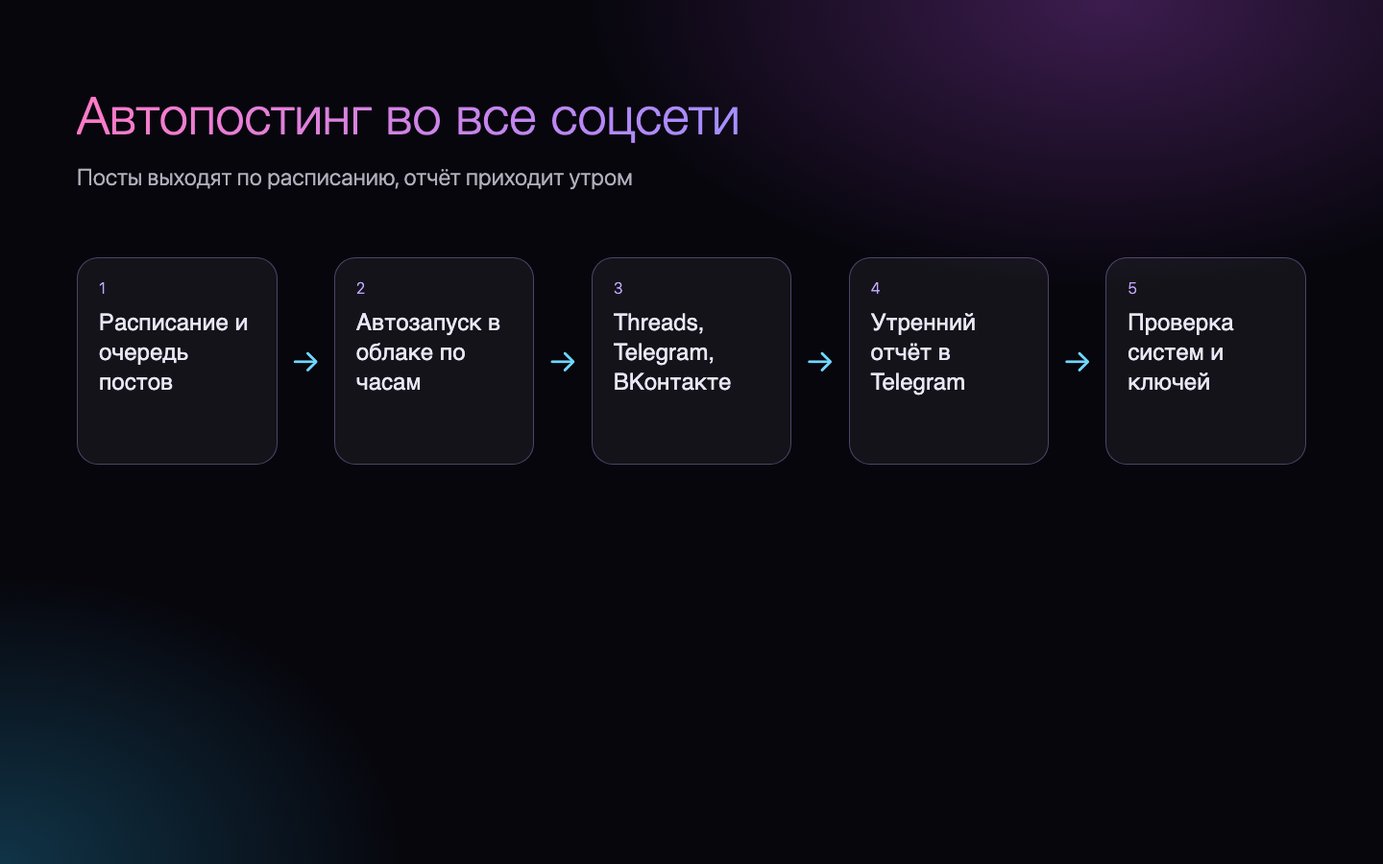
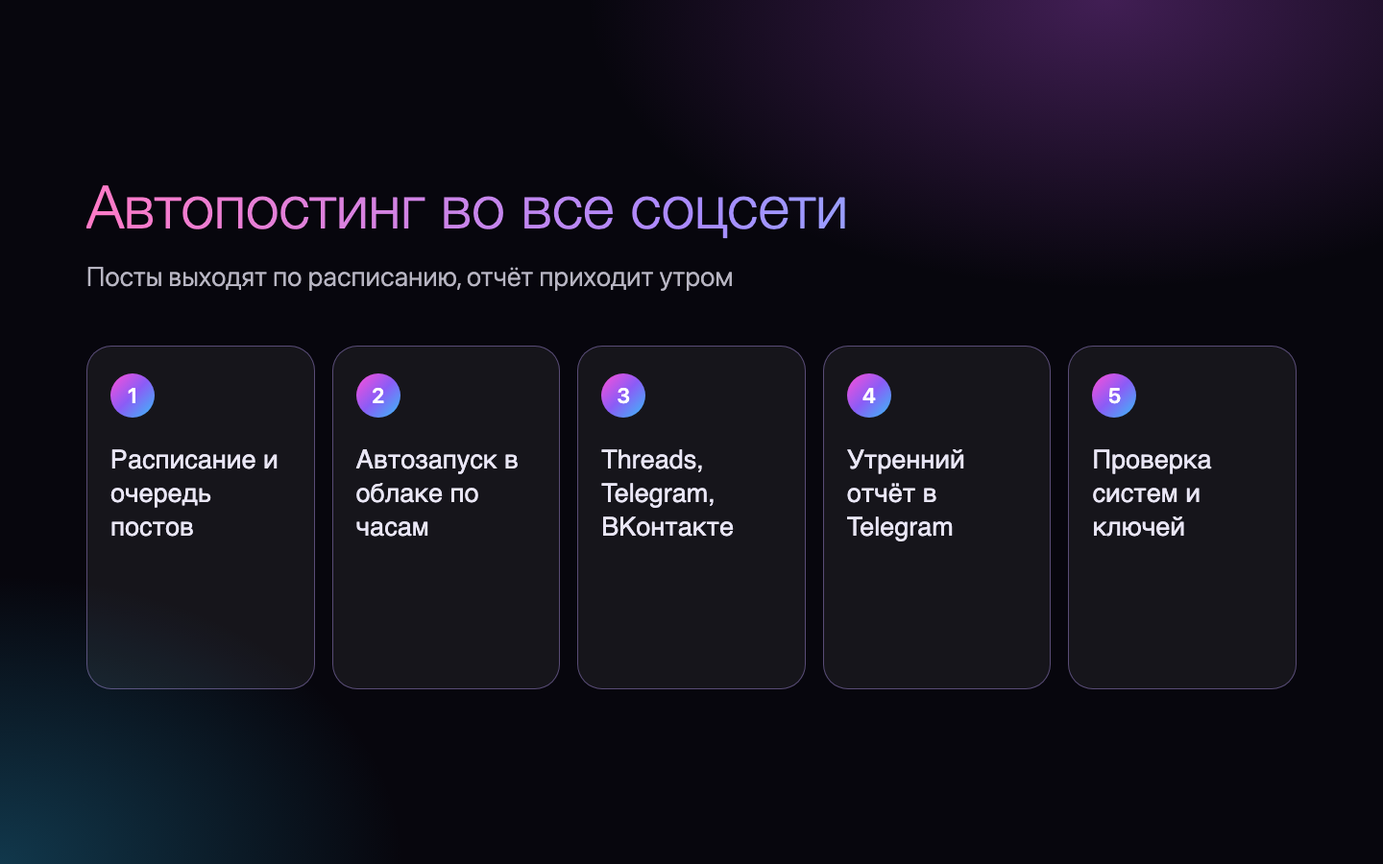
Сайт агентства: выровнены блоки, поля, схемы, единый блок работ

diff --git a/portfolio/works/agency/index.html b/portfolio/works/agency/index.html
@@ -105,114 +105,84 @@
         <p class="price">от 270 000 ₽</p>
       </article>
     </div>
-    <div class="row-link reveal">Цены «от»: точную смету называем после разбора, до оплаты. Каждую услугу можно заказать отдельно. <a class="link" href="price.html">Все цены →</a><br>Для амбассадоров клуба есть отдельное готовое предложение: <a class="link" href="https://3671407-cell.github.io/julia-media/portfolio/works/predlozhenie.pdf" target="_blank" rel="noopener">смотреть PDF →</a></div>
+    <p class="gnote reveal">Цены «от»: точную смету называем после разбора, до оплаты. Каждую услугу можно заказать отдельно. <a class="link" href="price.html">Все цены →</a><br>Для амбассадоров клуба есть отдельное готовое предложение: <a class="link" href="https://3671407-cell.github.io/julia-media/portfolio/works/predlozhenie.pdf" target="_blank" rel="noopener">смотреть PDF →</a></p>
   </section>
 
-  <!-- 4. Работы: единый формат -->
+  <!-- 4. Наши работы: цифры и все кейсы -->
   <section class="block wrap" id="cases">
     <span class="eyebrow reveal">Наши работы</span>
     <h2 class="reveal">Начали с себя: всё, что продаём, сначала сделали для своего проекта</h2>
-    <div class="cases">
-      <article class="card case reveal">
-        <div class="meta">01 · Контент · Threads</div>
-        <h3>Аккаунт в Threads с нуля без рекламы</h3>
-        <div class="nums"><div><b>190 000</b><span>просмотров за 2 недели</span></div><div><b>0 ₽</b><span>на рекламу</span></div></div>
-        <p class="fit"><b>Подойдёт, если</b> нужно, чтобы вас увидели без бюджета на рекламу.</p>
-        <a class="go" href="../../">Как это сделано →</a>
-      </article>
-      <article class="card case reveal">
-        <div class="meta">02 · Чат-бот · Автоворонка</div>
-        <h3>Бот с подарком и продажей мини-продукта</h3>
-        <div class="nums"><div><b>2 дня</b><span>от подписки до предложения</span></div><div><b>6</b><span>сообщений прогрева</span></div></div>
-        <p class="fit"><b>Подойдёт, если</b> подписчики приходят, но не покупают.</p>
-        <a class="go" href="https://t.me/Travel_threads_bot" target="_blank" rel="noopener">Попробовать бота →</a>
-      </article>
-      <article class="card case reveal">
-        <div class="meta">03 · Мини-продукт</div>
-        <h3>Набор контент-мейкера</h3>
-        <div class="nums"><div><b>100</b><span>заголовков</span></div><div><b>490 ₽</b><span>первый продукт</span></div></div>
-        <p class="fit"><b>Подойдёт, если</b> нужен недорогой продукт для первой продажи.</p>
-        <a class="go" href="nabor.html">Смотреть продукт →</a>
-      </article>
-      <article class="card case reveal">
-        <div class="meta">04 · Сайты</div>
-        <h3>Сайт-визитка и этот сайт</h3>
-        <div class="nums"><div><b>2</b><span>сайта в одном стиле</span></div><div><b>11</b><span>продающих блоков</span></div></div>
-        <p class="fit"><b>Подойдёт, если</b> нужен сайт, который объясняет и продаёт за вас.</p>
-        <a class="go" href="../../">Подробнее →</a>
-      </article>
+    <div class="nums4 reveal">
+      <div><b>190 000</b><span>просмотров в Threads за 2 недели без рекламы</span></div>
+      <div><b>2 дня</b><span>от подписки до предложения в боте</span></div>
+      <div><b>100</b><span>заголовков в наборе за 490 ₽</span></div>
+      <div><b>15</b><span>работ, которые можно открыть и пройти самим</span></div>
     </div>
-    <div class="row-link reveal"><a class="link" href="#all-works">Все работы →</a></div>
-  </section>
-
-  <!-- 4б. Все работы -->
-  <section class="block wrap" id="all-works">
-    <span class="eyebrow reveal">Все работы</span>
-    <h2 class="reveal">Всё, что мы сделали: нажмите на любую, чтобы пройти по ней самим</h2>
-    <div class="gal">
+    <div class="gal" id="all-works">
       <article class="card gcard reveal">
-        <a href="https://3671407-cell.github.io/julia-media/portfolio/works/vizitka/" target="_blank" rel="noopener"><img src="../../img/vizitka.png" alt="Сайт-визитка Юлии Жарковой: фото, имя и кнопка «Написать мне»" loading="lazy"></a>
+        <a class="gimg" href="https://3671407-cell.github.io/julia-media/portfolio/works/vizitka/" target="_blank" rel="noopener"><img src="../../img/vizitka.png" alt="Сайт-визитка Юлии Жарковой: фото, имя и кнопка «Написать мне»" loading="lazy"></a>
         <div class="gi"><div class="meta">визитка · дизайн · анимация</div><h3>Визитка Юлии</h3><p>Одна страница, один шаг: человек видит, чем я занимаюсь, и сразу пишет в Telegram.</p><a class="go" href="https://3671407-cell.github.io/julia-media/portfolio/works/vizitka/" target="_blank" rel="noopener">Открыть сайт →</a></div>
       </article>
       <article class="card gcard reveal">
-        <a href="https://3671407-cell.github.io/julia-media/portfolio/works/agency/" target="_blank" rel="noopener"><img src="../../img/agency.png" alt="Сайт агентства ZHAR: заголовок «Боты, воронки и сайты, которые превращают подписчиков в заявки»" loading="lazy"></a>
+        <a class="gimg" href="https://3671407-cell.github.io/julia-media/portfolio/works/agency/" target="_blank" rel="noopener"><img src="../../img/agency.png" alt="Сайт агентства ZHAR: заголовок «Боты, воронки и сайты, которые превращают подписчиков в заявки»" loading="lazy"></a>
         <div class="gi"><div class="meta">сайт услуг · квиз · демо бота</div><h3>Сайт агентства ZHAR</h3><p>Услуги, квиз, демо бота и частые вопросы. Всё ведёт к бесплатному разбору.</p><a class="go" href="https://3671407-cell.github.io/julia-media/portfolio/works/agency/" target="_blank" rel="noopener">Открыть сайт →</a></div>
       </article>
       <article class="card gcard reveal">
-        <a href="https://3671407-cell.github.io/julia-media/portfolio/works/agency/nabor.html" target="_blank" rel="noopener"><img src="../../img/nabor.png" alt="Страница цифрового продукта «Набор контент-мейкера»: 100 заголовков, 20 шаблонов, 30 дней" loading="lazy"></a>
+        <a class="gimg" href="https://3671407-cell.github.io/julia-media/portfolio/works/agency/nabor.html" target="_blank" rel="noopener"><img src="../../img/nabor.png" alt="Страница цифрового продукта «Набор контент-мейкера»: 100 заголовков, 20 шаблонов, 30 дней" loading="lazy"></a>
         <div class="gi"><div class="meta">страница продукта · продажи</div><h3>Страница набора контент-мейкера</h3><p>Страница цифрового продукта: что внутри, для кого и сколько стоит.</p><a class="go" href="https://3671407-cell.github.io/julia-media/portfolio/works/agency/nabor.html" target="_blank" rel="noopener">Открыть сайт →</a></div>
       </article>
       <article class="card gcard reveal">
-        <a href="https://3671407-cell.github.io/julia-media/portfolio/works/agency/price.html" target="_blank" rel="noopener"><img src="../../img/price.png" alt="Страница цен агентства ZHAR с пакетами услуг" loading="lazy"></a>
+        <a class="gimg" href="https://3671407-cell.github.io/julia-media/portfolio/works/agency/price.html" target="_blank" rel="noopener"><img src="../../img/price.png" alt="Страница цен агентства ZHAR с пакетами услуг" loading="lazy"></a>
         <div class="gi"><div class="meta">прайс · пакеты</div><h3>Цены ZHAR</h3><p>Три пакета и список услуг. Клиент сам выбирает, с чего начать.</p><a class="go" href="https://3671407-cell.github.io/julia-media/portfolio/works/agency/price.html" target="_blank" rel="noopener">Открыть сайт →</a></div>
       </article>
       <article class="card gcard reveal">
-        <a href="https://3671407-cell.github.io/julia-media/amb-k7q2m9/" target="_blank" rel="noopener"><img src="../../img/amb.png" alt="Страница амбассадора клуба путешествий: море, заголовок и кнопки" loading="lazy"></a>
+        <a class="gimg" href="https://3671407-cell.github.io/julia-media/amb-k7q2m9/" target="_blank" rel="noopener"><img src="../../img/amb.png" alt="Страница амбассадора клуба путешествий: море, заголовок и кнопки" loading="lazy"></a>
         <div class="gi"><div class="meta">сайт · 3 языка · видеоблог · ИИ-чат</div><h3>Страница амбассадора клуба путешествий</h3><p>Личный сайт на трёх языках: русском, английском и турецком. Видеоблог, подбор поездки под семью, карта поездки и чат с ИИ-помощником.</p><a class="go" href="https://3671407-cell.github.io/julia-media/amb-k7q2m9/" target="_blank" rel="noopener">Открыть сайт →</a></div>
       </article>
       <article class="card gcard reveal">
-        <a href="https://t.me/julia_travelclub_ai_bot" target="_blank" rel="noopener"><img src="../../img/ai-assistant.png" alt="Окно чата ИИ-помощника на сайте" loading="lazy"></a>
+        <a class="gimg" href="https://t.me/julia_travelclub_ai_bot" target="_blank" rel="noopener"><img src="../../img/ai-assistant.png" alt="Окно чата ИИ-помощника на сайте" loading="lazy"></a>
         <div class="gi"><div class="meta">ИИ-агент · чат на сайте · Telegram</div><h3>ИИ-помощник для сайта и Telegram</h3><p>Отвечает на вопросы по утверждённым правилам, не обещает доход, честно говорит, что он ИИ, и передаёт заявку владельцу. Один и тот же помощник работает на сайте и в боте.</p><a class="go" href="https://t.me/julia_travelclub_ai_bot" target="_blank" rel="noopener">Попробовать в Telegram →</a></div>
       </article>
       <article class="card gcard reveal">
-        <a href="https://3671407-cell.github.io/julia-media/guzel/" target="_blank" rel="noopener"><img src="../../img/guzel.png" alt="Сайт для Гузель: заголовок и схема «три в одном»" loading="lazy"></a>
+        <a class="gimg" href="https://3671407-cell.github.io/julia-media/guzel/" target="_blank" rel="noopener"><img src="../../img/guzel.png" alt="Сайт для Гузель: заголовок и схема «три в одном»" loading="lazy"></a>
         <div class="gi"><div class="meta">лендинг · заявки · дизайн</div><h3>Сайт для Гузель</h3><p>Страница независимого партнёра: один понятный продукт, структура от боли к решению, форма заявки.</p><a class="go" href="https://3671407-cell.github.io/julia-media/guzel/" target="_blank" rel="noopener">Открыть сайт →</a></div>
       </article>
       <article class="card gcard reveal">
-        <a href="https://3671407-cell.github.io/julia-media/portfolio/works/funnel/" target="_blank" rel="noopener"><img src="../../img/senler-voronka.png" alt="Схема пути клиента в боте: два пути сходятся на втором видео" loading="lazy"></a>
+        <a class="gimg" href="https://3671407-cell.github.io/julia-media/portfolio/works/funnel/" target="_blank" rel="noopener"><img src="../../img/senler-voronka.png" alt="Схема пути клиента в боте: два пути сходятся на втором видео" loading="lazy"></a>
         <div class="gi"><div class="meta">бот · воронка · Senler</div><h3>Воронка бота в Senler</h3><p>Схема пути человека: приветствие, кружок, подарок, видео, запись на разговор. Два пути, таймеры и короткие сообщения по шагам.</p><a class="go" href="https://3671407-cell.github.io/julia-media/portfolio/works/funnel/" target="_blank" rel="noopener">Открыть схему →</a></div>
       </article>
       <article class="card gcard reveal">
-        <a href="https://3671407-cell.github.io/julia-media/karta/" target="_blank" rel="noopener"><img src="../../img/karta.png" alt="Интерактивная «Карта поездки»: игра из семи вопросов" loading="lazy"></a>
+        <a class="gimg" href="https://3671407-cell.github.io/julia-media/karta/" target="_blank" rel="noopener"><img src="../../img/karta.png" alt="Интерактивная «Карта поездки»: игра из семи вопросов" loading="lazy"></a>
         <div class="gi"><div class="meta">игра · лидмагнит · дизайн</div><h3>«Карта поездки»: игра-подарок</h3><p>Интерактивная игра из семи вопросов. Человек выбирает настроение, получает постер маршрута и сохраняет его картинкой или в PDF.</p><a class="go" href="https://3671407-cell.github.io/julia-media/karta/" target="_blank" rel="noopener">Открыть сайт →</a></div>
       </article>
       <article class="card gcard reveal">
-        <a href="https://3671407-cell.github.io/julia-media/portfolio/works/strategy/" target="_blank" rel="noopener"><img src="../../img/strategiya.png" alt="Страница со стратегией и контент-планом на 90 дней" loading="lazy"></a>
+        <a class="gimg" href="https://3671407-cell.github.io/julia-media/portfolio/works/strategy/" target="_blank" rel="noopener"><img src="../../img/strategiya.png" alt="Страница со стратегией и контент-планом на 90 дней" loading="lazy"></a>
         <div class="gi"><div class="meta">стратегия · контент-план · Telegram · ВК</div><h3>План продвижения на 90 дней</h3><p>Стратегия и контент-план для Telegram и ВКонтакте: рубрики, календарь, тексты первых двух недель и проверка критиком.</p><a class="go" href="https://3671407-cell.github.io/julia-media/portfolio/works/strategy/" target="_blank" rel="noopener">Открыть документ →</a></div>
       </article>
       <article class="card gcard reveal">
-        <a href="https://3671407-cell.github.io/julia-media/portfolio/works/predlozhenie.pdf" target="_blank" rel="noopener"><img src="../../img/predlozhenie.png" alt="Предложение для амбассадоров: сколько это стоит на рынке и у нас" loading="lazy"></a>
+        <a class="gimg" href="https://3671407-cell.github.io/julia-media/portfolio/works/predlozhenie.pdf" target="_blank" rel="noopener"><img src="../../img/predlozhenie.png" alt="Предложение для амбассадоров: сколько это стоит на рынке и у нас" loading="lazy"></a>
         <div class="gi"><div class="meta">предложение · PDF · прайс</div><h3>Предложение для амбассадоров</h3><p>Коммерческое предложение для амбассадоров клуба в PDF: что входит, сколько стоит на рынке и сколько у нас, как считается поддержка.</p><a class="go" href="https://3671407-cell.github.io/julia-media/portfolio/works/predlozhenie.pdf" target="_blank" rel="noopener">Открыть PDF →</a></div>
       </article>
       <article class="card gcard reveal">
-        <a href="https://3671407-cell.github.io/julia-media/portfolio/works/autoposting/" target="_blank" rel="noopener"><img src="../../img/avtoposting.png" alt="Схема автопостинга: расписание, автозапуск, соцсети, утренний отчёт, проверка систем" loading="lazy"></a>
+        <a class="gimg" href="https://3671407-cell.github.io/julia-media/portfolio/works/autoposting/" target="_blank" rel="noopener"><img src="../../img/avtoposting.png" alt="Схема автопостинга: расписание, автозапуск, соцсети, утренний отчёт, проверка систем" loading="lazy"></a>
         <div class="gi"><div class="meta">автоматизация · Threads · Telegram · ВК</div><h3>Автопостинг во все соцсети</h3><p>Выкладка в Threads, Telegram и ВКонтакте по расписанию, утренний отчёт со всеми цифрами в Telegram, проверка ключей и систем, чтобы ничего не останавливалось.</p><a class="go" href="https://3671407-cell.github.io/julia-media/portfolio/works/autoposting/" target="_blank" rel="noopener">Открыть схему →</a></div>
       </article>
       <article class="card gcard reveal">
-        <a href="https://3671407-cell.github.io/julia-media/portfolio/works/fabrika/" target="_blank" rel="noopener"><img src="../../img/fabrika.png" alt="Схема фабрики контента: идеи, тексты, карусели, ролики, подписи" loading="lazy"></a>
+        <a class="gimg" href="https://3671407-cell.github.io/julia-media/portfolio/works/fabrika/" target="_blank" rel="noopener"><img src="../../img/fabrika.png" alt="Схема фабрики контента: идеи, тексты, карусели, ролики, подписи" loading="lazy"></a>
         <div class="gi"><div class="meta">контент · карусели · ролики</div><h3>Фабрика контента</h3><p>Единый процесс: рынок и идеи, тексты с проверкой критиком, карусели, ролики в семи форматах, подписи для всех площадок.</p><a class="go" href="https://3671407-cell.github.io/julia-media/portfolio/works/fabrika/" target="_blank" rel="noopener">Открыть схему →</a></div>
       </article>
       <article class="card gcard reveal">
-        <a href="https://3671407-cell.github.io/julia-media/portfolio/works/yukassa/" target="_blank" rel="noopener"><img src="../../img/yukassa.png" alt="Схема приёма оплаты: кнопка, страница продукта, ЮKassa, доступ, уведомление" loading="lazy"></a>
+        <a class="gimg" href="https://3671407-cell.github.io/julia-media/portfolio/works/yukassa/" target="_blank" rel="noopener"><img src="../../img/yukassa.png" alt="Схема приёма оплаты: кнопка, страница продукта, ЮKassa, доступ, уведомление" loading="lazy"></a>
         <div class="gi"><div class="meta">оплата · ЮKassa · облако</div><h3>Приём оплаты через ЮKassa</h3><p>Оплата в боте: страница продукта с согласием, платёж в ЮKassa, доступ сразу после оплаты, чек для УСН и уведомление владельцу.</p><a class="go" href="https://3671407-cell.github.io/julia-media/portfolio/works/yukassa/" target="_blank" rel="noopener">Открыть схему →</a></div>
       </article>
       <article class="card gcard reveal">
-        <a href="https://3671407-cell.github.io/julia-media/portfolio/works/german/" target="_blank" rel="noopener"><img src="../../img/german-app.png" alt="Стартовый экран игры для изучения немецкого: миссии, навыки и уровни" loading="lazy"></a>
+        <a class="gimg" href="https://3671407-cell.github.io/julia-media/portfolio/works/german/" target="_blank" rel="noopener"><img src="../../img/german-app.png" alt="Стартовый экран игры для изучения немецкого: миссии, навыки и уровни" loading="lazy"></a>
         <div class="gi"><div class="meta">приложение · обучение · игра</div><h3>Приложение для изучения немецкого</h3><p>Игровое приложение с нуля до первого экзамена: миссии по 4–5 минут, пять навыков, опыт и уровни, ошибки возвращаются, цель дня.</p><a class="go" href="https://3671407-cell.github.io/julia-media/portfolio/works/german/" target="_blank" rel="noopener">Попробовать →</a></div>
       </article>
     </div>
-    <div class="row-link reveal">Страницы доступны на русском, <a class="link" href="../../en/" target="_blank" rel="noopener">английском</a> и <a class="link" href="../../tr/" target="_blank" rel="noopener">турецком</a> языках.</div>
+    <p class="gnote reveal">Страницы доступны на русском, <a class="link" href="../../en/" target="_blank" rel="noopener">английском</a> и <a class="link" href="../../tr/" target="_blank" rel="noopener">турецком</a> языках.</p>
   </section>
+
 
 
   <!-- 5. Живое демо -->

diff --git a/portfolio/works/agency/zhar.css b/portfolio/works/agency/zhar.css
@@ -294,13 +294,24 @@
   }
 
   /* галерея всех работ */
-  .gal { display: grid; grid-template-columns: repeat(3, 1fr); gap: 18px; margin-top: 36px; }
-  .gcard { padding: 0; overflow: hidden; display: flex; flex-direction: column; }
-  .gcard img { width: 100%; aspect-ratio: 16/10; object-fit: cover; object-position: top; display: block; border-bottom: 1px solid var(--line); }
-  .gcard .gi { padding: 18px 20px 22px; }
-  .gcard .meta { font-size: 12px; letter-spacing: .1em; text-transform: uppercase; color: var(--muted); }
-  .gcard h3 { margin-top: 8px; font-size: 20px; font-weight: 300; }
-  .gcard p { margin-top: 8px; font-size: 14.5px; color: var(--muted); }
-  .gcard .go { display: inline-block; margin-top: 14px; font-size: 14.5px; color: var(--acc); }
-  @media (max-width: 1000px) { .gal { grid-template-columns: repeat(2, 1fr); } }
-  @media (max-width: 640px) { .gal { grid-template-columns: 1fr; } }
+  .nums4 { display: grid; grid-template-columns: repeat(4, 1fr); gap: 18px; margin-top: 36px; }
+  .nums4 > div { display: flex; flex-direction: column; gap: 10px; padding: 26px 24px; border: 1px solid var(--line); border-radius: 22px; background: var(--card); min-height: 150px; }
+  .nums4 b { font-family: var(--display); font-weight: 300; font-size: 34px; line-height: 1.1; background: var(--grad); -webkit-background-clip: text; background-clip: text; color: transparent; }
+  .nums4 span { font-size: 14.5px; color: var(--muted); line-height: 1.5; }
+  .gal { display: grid; grid-template-columns: repeat(3, 1fr); gap: 18px; margin-top: 18px; align-items: stretch; }
+  .gcard { padding: 0; overflow: hidden; display: flex; flex-direction: column; height: 100%; }
+  .gcard .gimg { display: block; aspect-ratio: 16 / 10; overflow: hidden; border-bottom: 1px solid var(--line); background: #0c0a16; }
+  .gcard .gimg img { width: 100%; height: 100%; object-fit: cover; object-position: top; display: block; }
+  .gcard .gi { padding: 18px 20px 22px; display: flex; flex-direction: column; flex: 1; }
+  .gcard .meta { font-size: 12px; letter-spacing: .1em; text-transform: uppercase; color: var(--muted); white-space: nowrap; overflow: hidden; text-overflow: ellipsis; }
+  .gcard h3 { margin-top: 10px; font-size: 20px; font-weight: 300; line-height: 1.3; min-height: 2.6em; }
+  .gcard p { margin-top: 8px; font-size: 14.5px; line-height: 1.55; color: var(--muted); flex: 1; }
+  .gcard .go { display: inline-block; margin-top: 16px; font-size: 14.5px; color: var(--acc); }
+  .gnote { margin-top: 26px; font-size: 15px; line-height: 1.8; color: var(--muted); }
+  .gnote .link { margin: 0 2px; }
+  @media (max-width: 1000px) { .gal { grid-template-columns: repeat(2, 1fr); } .nums4 { grid-template-columns: repeat(2, 1fr); } }
+  @media (max-width: 640px) { .gal, .nums4 { grid-template-columns: 1fr; } .gcard h3 { min-height: 0; } .nums4 > div { min-height: 0; } }
+
+  /* боковые поля у блоков: раньше section.block обнуляла их, и на узких экранах текст упирался в край */
+  section.block.wrap { padding-left: 24px; padding-right: 24px; }
+  @media (max-width: 640px) { section.block.wrap { padding-left: 16px; padding-right: 16px; } }
